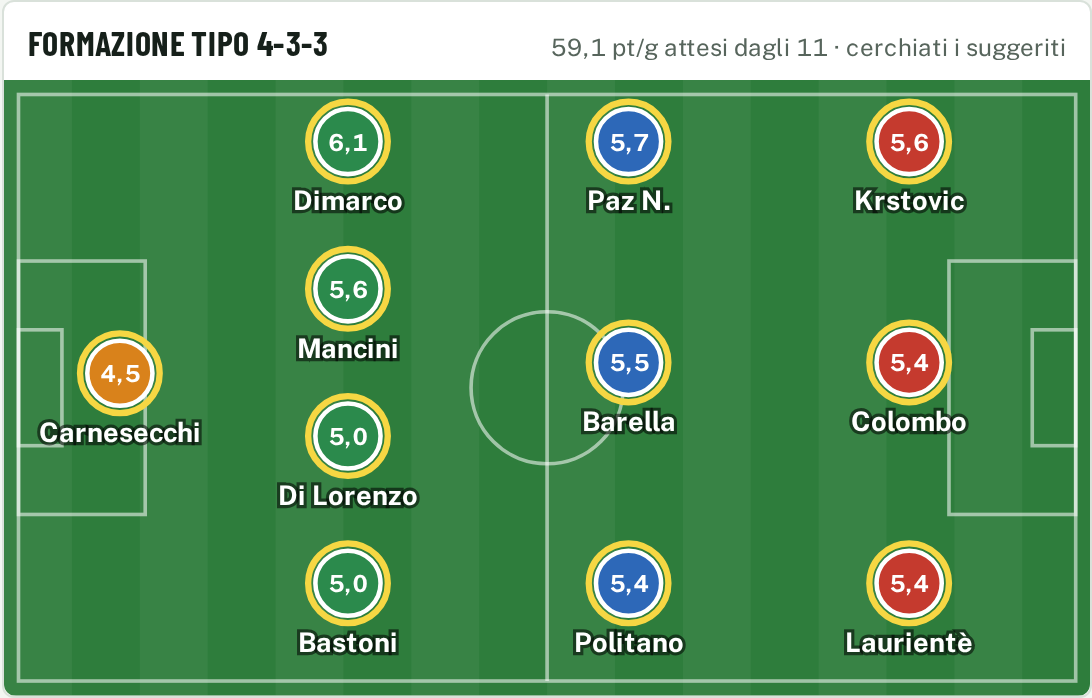
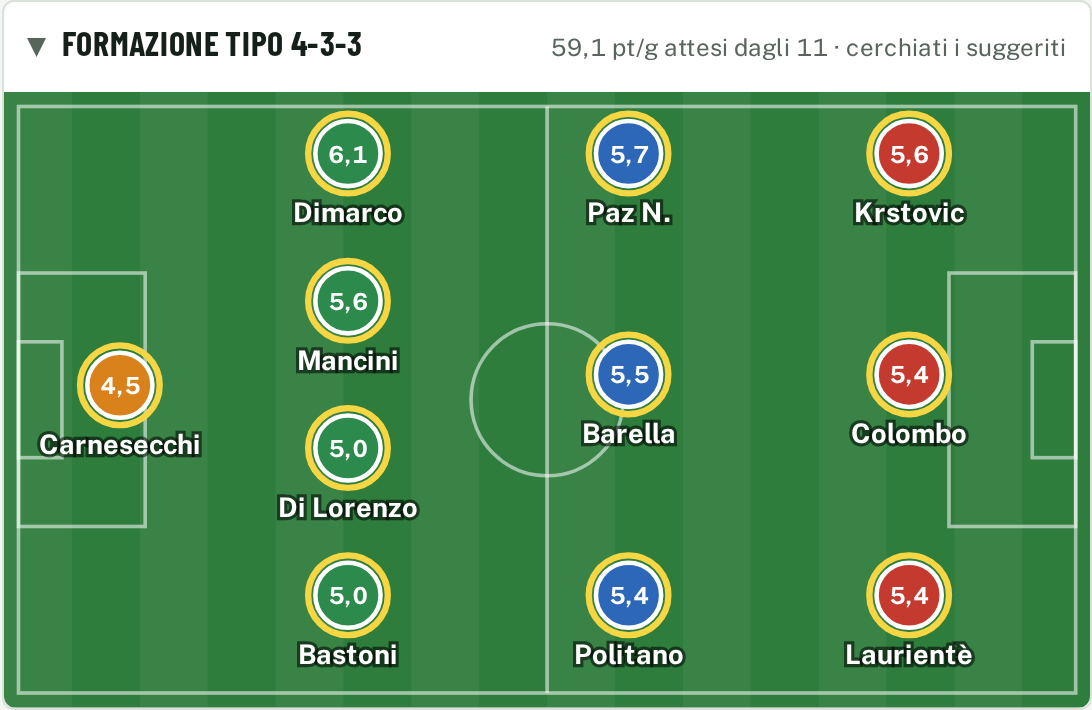
Pallone 3D a 32 pannelli e formazione tipo che si chiude a tendina
- Nuovo pallone generato da scripts/pallone.py: un icosaedro troncato
  vero (12 pentagoni neri, 20 esagoni bianchi) gonfiato su una sfera,
  con le cuciture curve, solo l'emisfero visibile, ombreggiatura per
  pannello, velo sferico e riflesso. ~7 KB di SVG, nessuna immagine.
- La formazione tipo si chiude a tendina: il campo scorre verso l'alto
  dietro al titolo e il riquadro si accorcia; l'SVG non viene piu'
  ridimensionato a ogni fotogramma (era quello a pesare e a scattare).
  La freccia gira subito al clic, non a fine animazione.
- Schermate del README aggiornate.

Claude-Session: https://claude.ai/code/session_01Dx9VgmQHZPvkBVP3JswiRz

diff --git a/web/index.html b/web/index.html
@@ -207,12 +207,14 @@ td.act { display: flex; gap: 4px; justify-content: flex-end; }
 .alts span.n { overflow: hidden; text-overflow: ellipsis; white-space: nowrap; }
 .squadre { display: flex; flex-wrap: wrap; gap: 6px; }
 .campo-card { padding: 0; }
-.campo-card .ruolo-h { padding: 12px 12px 6px; margin: 0; border: 0; cursor: pointer; list-style: none; }
-.campo-card:not([open]) .ruolo-h { padding-bottom: 12px; }
+.campo-card .ruolo-h { padding: 12px; margin: 0; border: 0; cursor: pointer; list-style: none; }
 .campo-card .ruolo-h::-webkit-details-marker { display: none; }
 .campo-card .ruolo-h h3::before { content: "▾"; display: inline-block; width: 1em; color: var(--ink-2); transition: transform 0.15s; }
-.campo-card:not([open]) .ruolo-h h3::before { transform: rotate(-90deg); }
-.campo { display: block; width: 100%; height: auto; aspect-ratio: 600 / 340; border-radius: 0 0 var(--radius) var(--radius); }
+.campo-card:not([open]) .ruolo-h h3::before, .campo-card.chiude .ruolo-h h3::before { transform: rotate(-90deg); }
+/* la tendina: il riquadro ritaglia, il campo scorre dentro senza ridimensionarsi */
+.campo-box { overflow: hidden; border-radius: 0 0 var(--radius) var(--radius); }
+.campo { display: block; width: 100%; height: auto; aspect-ratio: 600 / 340; }
+.campo-box.scorre .campo { will-change: transform; }
 .campo text { font-family: var(--font-body); }
 .chip { font-size: 12px; padding: 2px 8px; border-radius: 999px; border: 1px solid var(--rule); text-transform: capitalize; }
 .chip.full { border-color: var(--warn); color: var(--warn); font-weight: 600; }
@@ -938,7 +940,7 @@ function campo(tutti) {
   const strisce = Array.from({ length: 8 }, (_, i) => `<rect x="${i * 75}" y="0" width="37.5" height="${H}" fill="rgb(255 255 255 / 0.05)"/>`).join("");
   return `<details class="card campo-card" id="campo" ${S.campoChiuso ? "" : "open"}>
     <summary class="ruolo-h"><h3>Formazione tipo ${f.m}</h3><span class="lbl">${fmt(f.tot - (+f.m[0] >= 4 ? 1.5 : 0), 1)} pt/g attesi dagli 11 · cerchiati i suggeriti</span></summary>
-    <svg class="campo" viewBox="0 0 ${W} ${H}" role="img" aria-label="Formazione tipo ${f.m}">
+    <div class="campo-box"><svg class="campo" viewBox="0 0 ${W} ${H}" role="img" aria-label="Formazione tipo ${f.m}">
       <rect width="${W}" height="${H}" fill="var(--grass-1)"/>${strisce}
       <g fill="none" stroke="rgb(255 255 255 / 0.55)" stroke-width="2">
         <rect x="8" y="8" width="${W - 16}" height="${H - 16}"/>
@@ -948,7 +950,7 @@ function campo(tutti) {
         <rect x="${W - 78}" y="${H / 2 - 70}" width="70" height="140"/><rect x="${W - 32}" y="${H / 2 - 32}" width="24" height="64"/>
       </g>
       ${pallini}
-    </svg>
+    </svg></div>
   </details>`;
 }
 // --- scheda giocatore e dialoghi ----------------------------------------------------------
@@ -1269,7 +1271,8 @@ function annullaUltimo() {
 }
 
 // --- il calcio d'inizio: il pallone rotola sul bottone, viene verso di te e apre il setup ---
-const PALLONE = `<svg viewBox="0 0 100 100" aria-hidden="true"><defs><clipPath id="pallone-clip"><circle cx="50" cy="50" r="47"/></clipPath><radialGradient id="pallone-luce" cx="35%" cy="30%" r="75%"><stop offset="0" stop-color="#ffffff"/><stop offset="0.7" stop-color="#eef0ee"/><stop offset="1" stop-color="#aab1ac"/></radialGradient></defs><circle cx="50" cy="50" r="47" fill="url(#pallone-luce)"/><g clip-path="url(#pallone-clip)" fill="#16201a"><polygon points="50.0,35.0 64.3,45.4 58.8,62.1 41.2,62.1 35.7,45.4"/><polygon points="69.4,23.3 63.2,4.3 79.4,-7.5 95.6,4.3 89.4,23.3"/><polygon points="81.4,60.2 97.6,48.5 113.7,60.2 107.5,79.2 87.6,79.2"/><polygon points="50.0,83.0 66.2,94.7 60.0,113.8 40.0,113.8 33.8,94.7"/><polygon points="18.6,60.2 12.4,79.2 -7.5,79.2 -13.7,60.2 2.4,48.5"/><polygon points="30.6,23.3 10.6,23.3 4.4,4.3 20.6,-7.5 36.8,4.3"/><path d="M50.0 35.0L50.0 19.0M50.0 19.0L36.8 4.3M50.0 19.0L63.2 4.3M64.3 45.4L79.5 40.4M79.5 40.4L89.4 23.3M79.5 40.4L97.6 48.5M58.8 62.1L68.2 75.1M68.2 75.1L87.6 79.2M68.2 75.1L66.2 94.7M41.2 62.1L31.8 75.1M31.8 75.1L33.8 94.7M31.8 75.1L12.4 79.2M35.7 45.4L20.5 40.4M20.5 40.4L2.4 48.5M20.5 40.4L10.6 23.3" stroke="#16201a" stroke-width="2.4" fill="none" stroke-linecap="round"/></g><circle cx="50" cy="50" r="47" fill="none" stroke="#16201a" stroke-width="3"/></svg>`;
+// generato da scripts/pallone.py: icosaedro troncato gonfiato su una sfera, 12 pentagoni e 20 esagoni
+const PALLONE = `<svg viewBox="0 0 100 100" aria-hidden="true"><defs><radialGradient id="pl-volume" cx="38%" cy="34%" r="68%"><stop offset="0.55" stop-color="#000" stop-opacity="0"/><stop offset="0.9" stop-color="#000" stop-opacity="0.28"/><stop offset="1" stop-color="#000" stop-opacity="0.5"/></radialGradient><radialGradient id="pl-riflesso" cx="34%" cy="28%" r="30%"><stop offset="0" stop-color="#fff" stop-opacity="0.6"/><stop offset="1" stop-color="#fff" stop-opacity="0"/></radialGradient></defs><g stroke="#5b625e" stroke-width="0.9" stroke-linejoin="round"><path d="M96.8 54.5L96.9 52.9L97.0 49.3L97.0 47.9L97.0 48.8L97.0 49.8L97.0 50.7L97.0 51.7L96.9 52.6L96.9 53.6Z" fill="rgb(170,170,172)"/><path d="M7.2 30.5L7.2 30.6L6.5 32.6L5.2 36.1L4.2 39.7L3.5 43.3L3.2 45.5L3.5 43.3L3.8 41.1L4.3 38.9L4.9 36.8L5.6 34.6L6.4 32.6Z" fill="rgb(39,42,45)"/><path d="M53.3 3.1L53.2 3.1L52.3 3.2L48.5 3.3L44.7 3.6L40.9 4.2L37.2 5.2L33.7 6.4L32.0 6.7L30.7 7.2L33.7 5.9L36.8 4.9L40.1 4.1L43.4 3.5L46.8 3.1L50.1 3.0Z" fill="rgb(44,47,50)"/><path d="M3.0 52.1L3.1 53.5L3.6 56.3L4.3 59.2L5.4 61.9L6.7 64.5L7.8 67.9L9.1 71.4L10.8 74.7L12.7 77.8L14.8 80.6L15.2 81.5L15.5 81.9L12.6 78.5L10.0 74.6L7.6 70.4L5.8 65.8L4.4 61.2L3.5 56.6Z" fill="rgb(181,181,183)"/><path d="M69.3 92.8L69.6 92.7L71.0 91.8L72.3 90.7L73.5 89.3L76.5 87.1L79.5 84.7L82.3 82.0L84.8 79.2L87.1 76.2L88.9 74.7L90.5 73.1L91.8 71.3L92.8 69.5L90.7 73.5L88.1 77.6L84.9 81.5L81.3 85.0L77.4 88.2L73.4 90.8Z" fill="rgb(170,170,172)"/><path d="M84.5 18.1L84.1 17.8L83.3 17.3L82.1 17.0L80.8 16.9L77.9 14.9L74.7 13.0L71.4 11.3L67.9 10.0L64.4 8.9L62.1 7.2L59.7 5.8L57.3 4.6L54.8 3.8L52.3 3.2L53.2 3.1L53.3 3.1L58.0 3.7L63.0 4.8L67.9 6.5L72.7 8.8L77.1 11.6L81.1 14.8Z" fill="rgb(202,202,204)"/><path d="M15.5 81.9L15.2 81.5L14.8 80.6L16.8 82.2L19.0 83.6L21.5 84.7L24.1 85.6L26.9 86.3L29.9 88.4L33.1 90.3L36.5 91.9L39.9 93.3L43.4 94.3L44.2 95.4L45.0 96.2L45.9 96.7L46.7 96.9L42.0 96.3L37.0 95.2L32.1 93.5L27.3 91.2L22.9 88.4L18.9 85.2Z" fill="rgb(170,170,172)"/><path d="M30.7 7.2L32.0 6.7L33.7 6.4L32.1 7.6L30.7 9.1L29.4 10.9L28.2 12.9L27.2 15.1L24.1 17.3L21.2 19.8L18.4 22.5L15.8 25.3L13.6 28.3L11.6 28.9L9.9 29.6L8.5 30.5L7.3 31.5L6.5 32.6L7.2 30.6L7.2 30.5L9.3 26.5L11.9 22.4L15.1 18.5L18.7 15.0L22.6 11.8L26.6 9.2Z" fill="rgb(240,240,242)"/><path d="M97.0 47.9L97.0 49.3L96.7 48.8L96.1 48.3L95.2 47.8L94.1 47.3L92.6 46.9L91.5 43.5L90.2 40.2L88.5 36.9L86.6 33.7L84.5 30.7L84.3 27.7L83.7 24.7L83.0 21.9L82.0 19.3L80.8 16.9L82.1 17.0L83.3 17.3L84.1 17.8L84.5 18.1L87.4 21.5L90.0 25.4L92.4 29.6L94.2 34.2L95.6 38.8L96.5 43.4Z" fill="rgb(170,170,172)"/><path d="M46.7 96.9L45.9 96.7L45.0 96.2L44.2 95.4L43.4 94.3L46.5 94.0L49.7 93.3L53.0 92.4L56.2 91.2L59.3 89.7L62.3 90.2L65.2 90.3L68.1 90.2L70.9 89.9L73.5 89.3L72.3 90.7L71.0 91.8L69.6 92.7L69.3 92.8L66.3 94.1L63.2 95.1L59.9 95.9L56.6 96.5L53.2 96.9L49.9 97.0Z" fill="rgb(22,25,28)"/><path d="M92.8 69.5L91.8 71.3L90.5 73.1L88.9 74.7L87.1 76.2L87.4 73.9L87.6 71.5L87.5 68.9L87.1 66.2L86.5 63.5L88.2 60.3L89.7 57.0L91.0 53.6L91.9 50.2L92.6 46.9L94.1 47.3L95.2 47.8L96.1 48.3L96.7 48.8L97.0 49.3L96.9 52.9L96.8 54.5L96.5 56.7L96.2 58.9L95.7 61.1L95.1 63.2L94.4 65.4L93.6 67.4Z" fill="rgb(22,25,28)"/><path d="M6.7 64.5L5.4 61.9L4.3 59.2L3.6 56.3L3.1 53.5L3.0 52.1L3.0 51.2L3.0 50.2L3.0 49.3L3.0 48.3L3.1 47.4L3.1 46.4L3.2 45.5L3.5 43.3L4.2 39.7L5.2 36.1L6.5 32.6L7.3 31.5L8.5 30.5L9.9 29.6L11.6 28.9L13.6 28.3L13.8 30.8L14.4 33.4L15.1 36.2L16.1 39.1L17.3 42.0L16.1 45.6L15.2 49.2L14.5 52.9L14.1 56.6L13.8 60.1L11.9 61.1L10.2 62.1L8.8 63.0L7.6 63.8Z" fill="rgb(235,235,237)"/><path d="M26.3 73.6L26.1 76.5L26.1 79.3L26.2 81.8L26.5 84.2L26.9 86.3L24.1 85.6L21.5 84.7L19.0 83.6L16.8 82.2L14.8 80.6L12.7 77.8L10.8 74.7L9.1 71.4L7.8 67.9L6.7 64.5L7.6 63.8L8.8 63.0L10.2 62.1L11.9 61.1L13.8 60.1L15.9 63.0L18.2 65.8L20.7 68.6L23.5 71.2Z" fill="rgb(38,41,44)"/><path d="M27.2 15.1L28.2 12.9L29.4 10.9L30.7 9.1L32.1 7.6L33.7 6.4L37.2 5.2L40.9 4.2L44.7 3.6L48.5 3.3L52.3 3.2L54.8 3.8L57.3 4.6L59.7 5.8L62.1 7.2L64.4 8.9L63.3 10.1L62.0 11.6L60.7 13.4L59.3 15.5L57.9 17.7L54.2 17.9L50.5 18.3L46.7 18.9L42.9 19.8L39.3 20.8L36.7 19.3L34.1 17.9L31.7 16.7L29.3 15.8Z" fill="rgb(245,245,247)"/><path d="M80.8 16.9L82.0 19.3L83.0 21.9L83.7 24.7L84.3 27.7L84.5 30.7L82.1 30.5L79.5 30.5L76.6 30.6L73.5 30.8L70.4 31.1L68.1 28.2L65.7 25.3L63.1 22.5L60.5 20.0L57.9 17.7L59.3 15.5L60.7 13.4L62.0 11.6L63.3 10.1L64.4 8.9L67.9 10.0L71.4 11.3L74.7 13.0L77.9 14.9Z" fill="rgb(45,48,51)"/><path d="M59.3 89.7L59.3 87.7L59.2 85.3L59.1 82.8L58.9 80.0L58.7 77.0L61.6 74.7L64.4 72.2L67.2 69.6L69.8 66.8L72.3 63.9L75.5 64.0L78.5 64.0L81.4 63.9L84.1 63.7L86.5 63.5L87.1 66.2L87.5 68.9L87.6 71.5L87.4 73.9L87.1 76.2L84.8 79.2L82.3 82.0L79.5 84.7L76.5 87.1L73.5 89.3L70.9 89.9L68.1 90.2L65.2 90.3L62.3 90.2Z" fill="rgb(170,170,172)"/><path d="M26.3 73.6L29.2 73.0L32.3 72.2L35.6 71.2L38.9 70.2L42.2 69.0L45.4 70.9L48.8 72.7L52.1 74.3L55.5 75.8L58.7 77.0L58.9 80.0L59.1 82.8L59.2 85.3L59.3 87.7L59.3 89.7L56.2 91.2L53.0 92.4L49.7 93.3L46.5 94.0L43.4 94.3L39.9 93.3L36.5 91.9L33.1 90.3L29.9 88.4L26.9 86.3L26.5 84.2L26.2 81.8L26.1 79.3L26.1 76.5Z" fill="rgb(187,187,189)"/><path d="M17.3 42.0L16.1 39.1L15.1 36.2L14.4 33.4L13.8 30.8L13.6 28.3L15.8 25.3L18.4 22.5L21.2 19.8L24.1 17.3L27.2 15.1L29.3 15.8L31.7 16.7L34.1 17.9L36.7 19.3L39.3 20.8L37.9 23.8L36.6 27.0L35.3 30.4L34.2 33.9L33.2 37.4L29.7 38.2L26.3 39.0L23.1 40.0L20.1 41.0Z" fill="rgb(60,63,66)"/><path d="M84.5 30.7L86.6 33.7L88.5 36.9L90.2 40.2L91.5 43.5L92.6 46.9L91.9 50.2L91.0 53.6L89.7 57.0L88.2 60.3L86.5 63.5L84.1 63.7L81.4 63.9L78.5 64.0L75.5 64.0L72.3 63.9L71.0 60.8L69.4 57.6L67.8 54.3L66.1 51.0L64.2 47.7L65.7 44.4L67.0 40.9L68.3 37.5L69.4 34.3L70.4 31.1L73.5 30.8L76.6 30.6L79.5 30.5L82.1 30.5Z" fill="rgb(199,199,201)"/><path d="M13.8 60.1L14.1 56.6L14.5 52.9L15.2 49.2L16.1 45.6L17.3 42.0L20.1 41.0L23.1 40.0L26.3 39.0L29.7 38.2L33.2 37.4L35.5 40.0L37.9 42.6L40.5 45.4L43.0 48.2L45.6 50.9L44.9 54.6L44.1 58.3L43.4 62.0L42.8 65.6L42.2 69.0L38.9 70.2L35.6 71.2L32.3 72.2L29.2 73.0L26.3 73.6L23.5 71.2L20.7 68.6L18.2 65.8L15.9 63.0Z" fill="rgb(238,238,240)"/><path d="M39.3 20.8L42.9 19.8L46.7 18.9L50.5 18.3L54.2 17.9L57.9 17.7L60.5 20.0L63.1 22.5L65.7 25.3L68.1 28.2L70.4 31.1L69.4 34.3L68.3 37.5L67.0 40.9L65.7 44.4L64.2 47.7L60.6 48.4L56.9 49.0L53.1 49.6L49.3 50.3L45.6 50.9L43.0 48.2L40.5 45.4L37.9 42.6L35.5 40.0L33.2 37.4L34.2 33.9L35.3 30.4L36.6 27.0L37.9 23.8Z" fill="rgb(244,244,246)"/><path d="M45.6 50.9L49.3 50.3L53.1 49.6L56.9 49.0L60.6 48.4L64.2 47.7L66.1 51.0L67.8 54.3L69.4 57.6L71.0 60.8L72.3 63.9L69.8 66.8L67.2 69.6L64.4 72.2L61.6 74.7L58.7 77.0L55.5 75.8L52.1 74.3L48.8 72.7L45.4 70.9L42.2 69.0L42.8 65.6L43.4 62.0L44.1 58.3L44.9 54.6Z" fill="rgb(42,45,48)"/></g><circle cx="50.0" cy="50.0" r="47.0" fill="url(#pl-volume)"/><ellipse cx="36" cy="30" rx="17" ry="12" fill="url(#pl-riflesso)" transform="rotate(-30 36 30)"/><circle cx="50.0" cy="50.0" r="47.0" fill="none" stroke="#2b302d" stroke-width="1.4"/></svg>`;
 let inVolo = false;
 function calcioDInizio(btn) {
   const orig = btn.querySelector(".pallone");
@@ -1283,7 +1286,7 @@ function calcioDInizio(btn) {
   volo.innerHTML = PALLONE;
   Object.assign(volo.style, { left: b.left + "px", top: b.top + "px", width: b.width + "px", height: b.height + "px" });
   document.body.appendChild(volo);
-  orig.style.opacity = "0";           // non visibility: il clipPath del pallone deve restare attivo
+  orig.style.opacity = "0";           // non visibility: i gradienti del pallone devono restare attivi
   btn.querySelector(".ombra").style.opacity = "0";
 
   const d = b.width;
@@ -1423,20 +1426,31 @@ function risultatiRicerca() {
 }
 
 // --- eventi -----------------------------------------------------------------------------
-// apertura e chiusura della formazione tipo con una tendina animata sull'altezza del campo
+// apertura e chiusura della formazione tipo a tendina: il campo scorre verso l'alto dietro al
+// titolo (solo transform, niente ridimensionamento dell'SVG) mentre il riquadro si accorcia.
 document.addEventListener("click", (e) => {
   const s = e.target.closest("#campo > summary");
   if (!s || !Element.prototype.animate || !matchMedia("(prefers-reduced-motion: no-preference)").matches) return;
-  const det = s.parentElement, campo = det.querySelector(".campo");
-  if (det.dataset.anim) { e.preventDefault(); return; }
   e.preventDefault();
+  const det = s.parentElement, box = det.querySelector(".campo-box"), campo = det.querySelector(".campo");
+  if (det.dataset.anim) return;
   det.dataset.anim = "1";
   const apri = !det.open;
+  det.classList.toggle("chiude", !apri);
   if (apri) det.open = true;
   const h = campo.getBoundingClientRect().height;
-  const fotogrammi = [{ height: "0px", opacity: 0, transform: "translateY(-8px)" }, { height: h + "px", opacity: 1, transform: "none" }];
-  const a = campo.animate(apri ? fotogrammi : fotogrammi.slice().reverse(), { duration: 260, easing: "cubic-bezier(.3,.7,.3,1)" });
-  a.finished.then(() => { if (!apri) det.open = false; delete det.dataset.anim; });
+  const opz = { duration: 280, easing: apri ? "cubic-bezier(.2,.7,.3,1)" : "cubic-bezier(.5,0,.8,.4)" };
+  const su = [{ transform: "translateY(0)" }, { transform: `translateY(${-h}px)` }];
+  const alto = [{ height: h + "px" }, { height: "0px" }];
+  box.classList.add("scorre");
+  const a = box.animate(apri ? alto.slice().reverse() : alto, opz);
+  campo.animate(apri ? su.slice().reverse() : su, opz);
+  a.finished.then(() => {
+    if (!apri) det.open = false;
+    det.classList.remove("chiude");
+    box.classList.remove("scorre");
+    delete det.dataset.anim;
+  });
 });
 // formazione tipo aperta o chiusa: la scelta resta fra un ricalcolo e l'altro
 document.addEventListener("toggle", (e) => {

diff --git a/web/tool.html b/web/tool.html
@@ -200,12 +200,14 @@ td.act { display: flex; gap: 4px; justify-content: flex-end; }
 .alts span.n { overflow: hidden; text-overflow: ellipsis; white-space: nowrap; }
 .squadre { display: flex; flex-wrap: wrap; gap: 6px; }
 .campo-card { padding: 0; }
-.campo-card .ruolo-h { padding: 12px 12px 6px; margin: 0; border: 0; cursor: pointer; list-style: none; }
-.campo-card:not([open]) .ruolo-h { padding-bottom: 12px; }
+.campo-card .ruolo-h { padding: 12px; margin: 0; border: 0; cursor: pointer; list-style: none; }
 .campo-card .ruolo-h::-webkit-details-marker { display: none; }
 .campo-card .ruolo-h h3::before { content: "▾"; display: inline-block; width: 1em; color: var(--ink-2); transition: transform 0.15s; }
-.campo-card:not([open]) .ruolo-h h3::before { transform: rotate(-90deg); }
-.campo { display: block; width: 100%; height: auto; aspect-ratio: 600 / 340; border-radius: 0 0 var(--radius) var(--radius); }
+.campo-card:not([open]) .ruolo-h h3::before, .campo-card.chiude .ruolo-h h3::before { transform: rotate(-90deg); }
+/* la tendina: il riquadro ritaglia, il campo scorre dentro senza ridimensionarsi */
+.campo-box { overflow: hidden; border-radius: 0 0 var(--radius) var(--radius); }
+.campo { display: block; width: 100%; height: auto; aspect-ratio: 600 / 340; }
+.campo-box.scorre .campo { will-change: transform; }
 .campo text { font-family: var(--font-body); }
 .chip { font-size: 12px; padding: 2px 8px; border-radius: 999px; border: 1px solid var(--rule); text-transform: capitalize; }
 .chip.full { border-color: var(--warn); color: var(--warn); font-weight: 600; }
@@ -931,7 +933,7 @@ function campo(tutti) {
   const strisce = Array.from({ length: 8 }, (_, i) => `<rect x="${i * 75}" y="0" width="37.5" height="${H}" fill="rgb(255 255 255 / 0.05)"/>`).join("");
   return `<details class="card campo-card" id="campo" ${S.campoChiuso ? "" : "open"}>
     <summary class="ruolo-h"><h3>Formazione tipo ${f.m}</h3><span class="lbl">${fmt(f.tot - (+f.m[0] >= 4 ? 1.5 : 0), 1)} pt/g attesi dagli 11 · cerchiati i suggeriti</span></summary>
-    <svg class="campo" viewBox="0 0 ${W} ${H}" role="img" aria-label="Formazione tipo ${f.m}">
+    <div class="campo-box"><svg class="campo" viewBox="0 0 ${W} ${H}" role="img" aria-label="Formazione tipo ${f.m}">
       <rect width="${W}" height="${H}" fill="var(--grass-1)"/>${strisce}
       <g fill="none" stroke="rgb(255 255 255 / 0.55)" stroke-width="2">
         <rect x="8" y="8" width="${W - 16}" height="${H - 16}"/>
@@ -941,7 +943,7 @@ function campo(tutti) {
         <rect x="${W - 78}" y="${H / 2 - 70}" width="70" height="140"/><rect x="${W - 32}" y="${H / 2 - 32}" width="24" height="64"/>
       </g>
       ${pallini}
-    </svg>
+    </svg></div>
   </details>`;
 }
 // --- scheda giocatore e dialoghi ----------------------------------------------------------
@@ -1262,7 +1264,8 @@ function annullaUltimo() {
 }
 
 // --- il calcio d'inizio: il pallone rotola sul bottone, viene verso di te e apre il setup ---
-const PALLONE = `<svg viewBox="0 0 100 100" aria-hidden="true"><defs><clipPath id="pallone-clip"><circle cx="50" cy="50" r="47"/></clipPath><radialGradient id="pallone-luce" cx="35%" cy="30%" r="75%"><stop offset="0" stop-color="#ffffff"/><stop offset="0.7" stop-color="#eef0ee"/><stop offset="1" stop-color="#aab1ac"/></radialGradient></defs><circle cx="50" cy="50" r="47" fill="url(#pallone-luce)"/><g clip-path="url(#pallone-clip)" fill="#16201a"><polygon points="50.0,35.0 64.3,45.4 58.8,62.1 41.2,62.1 35.7,45.4"/><polygon points="69.4,23.3 63.2,4.3 79.4,-7.5 95.6,4.3 89.4,23.3"/><polygon points="81.4,60.2 97.6,48.5 113.7,60.2 107.5,79.2 87.6,79.2"/><polygon points="50.0,83.0 66.2,94.7 60.0,113.8 40.0,113.8 33.8,94.7"/><polygon points="18.6,60.2 12.4,79.2 -7.5,79.2 -13.7,60.2 2.4,48.5"/><polygon points="30.6,23.3 10.6,23.3 4.4,4.3 20.6,-7.5 36.8,4.3"/><path d="M50.0 35.0L50.0 19.0M50.0 19.0L36.8 4.3M50.0 19.0L63.2 4.3M64.3 45.4L79.5 40.4M79.5 40.4L89.4 23.3M79.5 40.4L97.6 48.5M58.8 62.1L68.2 75.1M68.2 75.1L87.6 79.2M68.2 75.1L66.2 94.7M41.2 62.1L31.8 75.1M31.8 75.1L33.8 94.7M31.8 75.1L12.4 79.2M35.7 45.4L20.5 40.4M20.5 40.4L2.4 48.5M20.5 40.4L10.6 23.3" stroke="#16201a" stroke-width="2.4" fill="none" stroke-linecap="round"/></g><circle cx="50" cy="50" r="47" fill="none" stroke="#16201a" stroke-width="3"/></svg>`;
+// generato da scripts/pallone.py: icosaedro troncato gonfiato su una sfera, 12 pentagoni e 20 esagoni
+const PALLONE = `<svg viewBox="0 0 100 100" aria-hidden="true"><defs><radialGradient id="pl-volume" cx="38%" cy="34%" r="68%"><stop offset="0.55" stop-color="#000" stop-opacity="0"/><stop offset="0.9" stop-color="#000" stop-opacity="0.28"/><stop offset="1" stop-color="#000" stop-opacity="0.5"/></radialGradient><radialGradient id="pl-riflesso" cx="34%" cy="28%" r="30%"><stop offset="0" stop-color="#fff" stop-opacity="0.6"/><stop offset="1" stop-color="#fff" stop-opacity="0"/></radialGradient></defs><g stroke="#5b625e" stroke-width="0.9" stroke-linejoin="round"><path d="M96.8 54.5L96.9 52.9L97.0 49.3L97.0 47.9L97.0 48.8L97.0 49.8L97.0 50.7L97.0 51.7L96.9 52.6L96.9 53.6Z" fill="rgb(170,170,172)"/><path d="M7.2 30.5L7.2 30.6L6.5 32.6L5.2 36.1L4.2 39.7L3.5 43.3L3.2 45.5L3.5 43.3L3.8 41.1L4.3 38.9L4.9 36.8L5.6 34.6L6.4 32.6Z" fill="rgb(39,42,45)"/><path d="M53.3 3.1L53.2 3.1L52.3 3.2L48.5 3.3L44.7 3.6L40.9 4.2L37.2 5.2L33.7 6.4L32.0 6.7L30.7 7.2L33.7 5.9L36.8 4.9L40.1 4.1L43.4 3.5L46.8 3.1L50.1 3.0Z" fill="rgb(44,47,50)"/><path d="M3.0 52.1L3.1 53.5L3.6 56.3L4.3 59.2L5.4 61.9L6.7 64.5L7.8 67.9L9.1 71.4L10.8 74.7L12.7 77.8L14.8 80.6L15.2 81.5L15.5 81.9L12.6 78.5L10.0 74.6L7.6 70.4L5.8 65.8L4.4 61.2L3.5 56.6Z" fill="rgb(181,181,183)"/><path d="M69.3 92.8L69.6 92.7L71.0 91.8L72.3 90.7L73.5 89.3L76.5 87.1L79.5 84.7L82.3 82.0L84.8 79.2L87.1 76.2L88.9 74.7L90.5 73.1L91.8 71.3L92.8 69.5L90.7 73.5L88.1 77.6L84.9 81.5L81.3 85.0L77.4 88.2L73.4 90.8Z" fill="rgb(170,170,172)"/><path d="M84.5 18.1L84.1 17.8L83.3 17.3L82.1 17.0L80.8 16.9L77.9 14.9L74.7 13.0L71.4 11.3L67.9 10.0L64.4 8.9L62.1 7.2L59.7 5.8L57.3 4.6L54.8 3.8L52.3 3.2L53.2 3.1L53.3 3.1L58.0 3.7L63.0 4.8L67.9 6.5L72.7 8.8L77.1 11.6L81.1 14.8Z" fill="rgb(202,202,204)"/><path d="M15.5 81.9L15.2 81.5L14.8 80.6L16.8 82.2L19.0 83.6L21.5 84.7L24.1 85.6L26.9 86.3L29.9 88.4L33.1 90.3L36.5 91.9L39.9 93.3L43.4 94.3L44.2 95.4L45.0 96.2L45.9 96.7L46.7 96.9L42.0 96.3L37.0 95.2L32.1 93.5L27.3 91.2L22.9 88.4L18.9 85.2Z" fill="rgb(170,170,172)"/><path d="M30.7 7.2L32.0 6.7L33.7 6.4L32.1 7.6L30.7 9.1L29.4 10.9L28.2 12.9L27.2 15.1L24.1 17.3L21.2 19.8L18.4 22.5L15.8 25.3L13.6 28.3L11.6 28.9L9.9 29.6L8.5 30.5L7.3 31.5L6.5 32.6L7.2 30.6L7.2 30.5L9.3 26.5L11.9 22.4L15.1 18.5L18.7 15.0L22.6 11.8L26.6 9.2Z" fill="rgb(240,240,242)"/><path d="M97.0 47.9L97.0 49.3L96.7 48.8L96.1 48.3L95.2 47.8L94.1 47.3L92.6 46.9L91.5 43.5L90.2 40.2L88.5 36.9L86.6 33.7L84.5 30.7L84.3 27.7L83.7 24.7L83.0 21.9L82.0 19.3L80.8 16.9L82.1 17.0L83.3 17.3L84.1 17.8L84.5 18.1L87.4 21.5L90.0 25.4L92.4 29.6L94.2 34.2L95.6 38.8L96.5 43.4Z" fill="rgb(170,170,172)"/><path d="M46.7 96.9L45.9 96.7L45.0 96.2L44.2 95.4L43.4 94.3L46.5 94.0L49.7 93.3L53.0 92.4L56.2 91.2L59.3 89.7L62.3 90.2L65.2 90.3L68.1 90.2L70.9 89.9L73.5 89.3L72.3 90.7L71.0 91.8L69.6 92.7L69.3 92.8L66.3 94.1L63.2 95.1L59.9 95.9L56.6 96.5L53.2 96.9L49.9 97.0Z" fill="rgb(22,25,28)"/><path d="M92.8 69.5L91.8 71.3L90.5 73.1L88.9 74.7L87.1 76.2L87.4 73.9L87.6 71.5L87.5 68.9L87.1 66.2L86.5 63.5L88.2 60.3L89.7 57.0L91.0 53.6L91.9 50.2L92.6 46.9L94.1 47.3L95.2 47.8L96.1 48.3L96.7 48.8L97.0 49.3L96.9 52.9L96.8 54.5L96.5 56.7L96.2 58.9L95.7 61.1L95.1 63.2L94.4 65.4L93.6 67.4Z" fill="rgb(22,25,28)"/><path d="M6.7 64.5L5.4 61.9L4.3 59.2L3.6 56.3L3.1 53.5L3.0 52.1L3.0 51.2L3.0 50.2L3.0 49.3L3.0 48.3L3.1 47.4L3.1 46.4L3.2 45.5L3.5 43.3L4.2 39.7L5.2 36.1L6.5 32.6L7.3 31.5L8.5 30.5L9.9 29.6L11.6 28.9L13.6 28.3L13.8 30.8L14.4 33.4L15.1 36.2L16.1 39.1L17.3 42.0L16.1 45.6L15.2 49.2L14.5 52.9L14.1 56.6L13.8 60.1L11.9 61.1L10.2 62.1L8.8 63.0L7.6 63.8Z" fill="rgb(235,235,237)"/><path d="M26.3 73.6L26.1 76.5L26.1 79.3L26.2 81.8L26.5 84.2L26.9 86.3L24.1 85.6L21.5 84.7L19.0 83.6L16.8 82.2L14.8 80.6L12.7 77.8L10.8 74.7L9.1 71.4L7.8 67.9L6.7 64.5L7.6 63.8L8.8 63.0L10.2 62.1L11.9 61.1L13.8 60.1L15.9 63.0L18.2 65.8L20.7 68.6L23.5 71.2Z" fill="rgb(38,41,44)"/><path d="M27.2 15.1L28.2 12.9L29.4 10.9L30.7 9.1L32.1 7.6L33.7 6.4L37.2 5.2L40.9 4.2L44.7 3.6L48.5 3.3L52.3 3.2L54.8 3.8L57.3 4.6L59.7 5.8L62.1 7.2L64.4 8.9L63.3 10.1L62.0 11.6L60.7 13.4L59.3 15.5L57.9 17.7L54.2 17.9L50.5 18.3L46.7 18.9L42.9 19.8L39.3 20.8L36.7 19.3L34.1 17.9L31.7 16.7L29.3 15.8Z" fill="rgb(245,245,247)"/><path d="M80.8 16.9L82.0 19.3L83.0 21.9L83.7 24.7L84.3 27.7L84.5 30.7L82.1 30.5L79.5 30.5L76.6 30.6L73.5 30.8L70.4 31.1L68.1 28.2L65.7 25.3L63.1 22.5L60.5 20.0L57.9 17.7L59.3 15.5L60.7 13.4L62.0 11.6L63.3 10.1L64.4 8.9L67.9 10.0L71.4 11.3L74.7 13.0L77.9 14.9Z" fill="rgb(45,48,51)"/><path d="M59.3 89.7L59.3 87.7L59.2 85.3L59.1 82.8L58.9 80.0L58.7 77.0L61.6 74.7L64.4 72.2L67.2 69.6L69.8 66.8L72.3 63.9L75.5 64.0L78.5 64.0L81.4 63.9L84.1 63.7L86.5 63.5L87.1 66.2L87.5 68.9L87.6 71.5L87.4 73.9L87.1 76.2L84.8 79.2L82.3 82.0L79.5 84.7L76.5 87.1L73.5 89.3L70.9 89.9L68.1 90.2L65.2 90.3L62.3 90.2Z" fill="rgb(170,170,172)"/><path d="M26.3 73.6L29.2 73.0L32.3 72.2L35.6 71.2L38.9 70.2L42.2 69.0L45.4 70.9L48.8 72.7L52.1 74.3L55.5 75.8L58.7 77.0L58.9 80.0L59.1 82.8L59.2 85.3L59.3 87.7L59.3 89.7L56.2 91.2L53.0 92.4L49.7 93.3L46.5 94.0L43.4 94.3L39.9 93.3L36.5 91.9L33.1 90.3L29.9 88.4L26.9 86.3L26.5 84.2L26.2 81.8L26.1 79.3L26.1 76.5Z" fill="rgb(187,187,189)"/><path d="M17.3 42.0L16.1 39.1L15.1 36.2L14.4 33.4L13.8 30.8L13.6 28.3L15.8 25.3L18.4 22.5L21.2 19.8L24.1 17.3L27.2 15.1L29.3 15.8L31.7 16.7L34.1 17.9L36.7 19.3L39.3 20.8L37.9 23.8L36.6 27.0L35.3 30.4L34.2 33.9L33.2 37.4L29.7 38.2L26.3 39.0L23.1 40.0L20.1 41.0Z" fill="rgb(60,63,66)"/><path d="M84.5 30.7L86.6 33.7L88.5 36.9L90.2 40.2L91.5 43.5L92.6 46.9L91.9 50.2L91.0 53.6L89.7 57.0L88.2 60.3L86.5 63.5L84.1 63.7L81.4 63.9L78.5 64.0L75.5 64.0L72.3 63.9L71.0 60.8L69.4 57.6L67.8 54.3L66.1 51.0L64.2 47.7L65.7 44.4L67.0 40.9L68.3 37.5L69.4 34.3L70.4 31.1L73.5 30.8L76.6 30.6L79.5 30.5L82.1 30.5Z" fill="rgb(199,199,201)"/><path d="M13.8 60.1L14.1 56.6L14.5 52.9L15.2 49.2L16.1 45.6L17.3 42.0L20.1 41.0L23.1 40.0L26.3 39.0L29.7 38.2L33.2 37.4L35.5 40.0L37.9 42.6L40.5 45.4L43.0 48.2L45.6 50.9L44.9 54.6L44.1 58.3L43.4 62.0L42.8 65.6L42.2 69.0L38.9 70.2L35.6 71.2L32.3 72.2L29.2 73.0L26.3 73.6L23.5 71.2L20.7 68.6L18.2 65.8L15.9 63.0Z" fill="rgb(238,238,240)"/><path d="M39.3 20.8L42.9 19.8L46.7 18.9L50.5 18.3L54.2 17.9L57.9 17.7L60.5 20.0L63.1 22.5L65.7 25.3L68.1 28.2L70.4 31.1L69.4 34.3L68.3 37.5L67.0 40.9L65.7 44.4L64.2 47.7L60.6 48.4L56.9 49.0L53.1 49.6L49.3 50.3L45.6 50.9L43.0 48.2L40.5 45.4L37.9 42.6L35.5 40.0L33.2 37.4L34.2 33.9L35.3 30.4L36.6 27.0L37.9 23.8Z" fill="rgb(244,244,246)"/><path d="M45.6 50.9L49.3 50.3L53.1 49.6L56.9 49.0L60.6 48.4L64.2 47.7L66.1 51.0L67.8 54.3L69.4 57.6L71.0 60.8L72.3 63.9L69.8 66.8L67.2 69.6L64.4 72.2L61.6 74.7L58.7 77.0L55.5 75.8L52.1 74.3L48.8 72.7L45.4 70.9L42.2 69.0L42.8 65.6L43.4 62.0L44.1 58.3L44.9 54.6Z" fill="rgb(42,45,48)"/></g><circle cx="50.0" cy="50.0" r="47.0" fill="url(#pl-volume)"/><ellipse cx="36" cy="30" rx="17" ry="12" fill="url(#pl-riflesso)" transform="rotate(-30 36 30)"/><circle cx="50.0" cy="50.0" r="47.0" fill="none" stroke="#2b302d" stroke-width="1.4"/></svg>`;
 let inVolo = false;
 function calcioDInizio(btn) {
   const orig = btn.querySelector(".pallone");
@@ -1276,7 +1279,7 @@ function calcioDInizio(btn) {
   volo.innerHTML = PALLONE;
   Object.assign(volo.style, { left: b.left + "px", top: b.top + "px", width: b.width + "px", height: b.height + "px" });
   document.body.appendChild(volo);
-  orig.style.opacity = "0";           // non visibility: il clipPath del pallone deve restare attivo
+  orig.style.opacity = "0";           // non visibility: i gradienti del pallone devono restare attivi
   btn.querySelector(".ombra").style.opacity = "0";
 
   const d = b.width;
@@ -1416,20 +1419,31 @@ function risultatiRicerca() {
 }
 
 // --- eventi -----------------------------------------------------------------------------
-// apertura e chiusura della formazione tipo con una tendina animata sull'altezza del campo
+// apertura e chiusura della formazione tipo a tendina: il campo scorre verso l'alto dietro al
+// titolo (solo transform, niente ridimensionamento dell'SVG) mentre il riquadro si accorcia.
 document.addEventListener("click", (e) => {
   const s = e.target.closest("#campo > summary");
   if (!s || !Element.prototype.animate || !matchMedia("(prefers-reduced-motion: no-preference)").matches) return;
-  const det = s.parentElement, campo = det.querySelector(".campo");
-  if (det.dataset.anim) { e.preventDefault(); return; }
   e.preventDefault();
+  const det = s.parentElement, box = det.querySelector(".campo-box"), campo = det.querySelector(".campo");
+  if (det.dataset.anim) return;
   det.dataset.anim = "1";
   const apri = !det.open;
+  det.classList.toggle("chiude", !apri);
   if (apri) det.open = true;
   const h = campo.getBoundingClientRect().height;
-  const fotogrammi = [{ height: "0px", opacity: 0, transform: "translateY(-8px)" }, { height: h + "px", opacity: 1, transform: "none" }];
-  const a = campo.animate(apri ? fotogrammi : fotogrammi.slice().reverse(), { duration: 260, easing: "cubic-bezier(.3,.7,.3,1)" });
-  a.finished.then(() => { if (!apri) det.open = false; delete det.dataset.anim; });
+  const opz = { duration: 280, easing: apri ? "cubic-bezier(.2,.7,.3,1)" : "cubic-bezier(.5,0,.8,.4)" };
+  const su = [{ transform: "translateY(0)" }, { transform: `translateY(${-h}px)` }];
+  const alto = [{ height: h + "px" }, { height: "0px" }];
+  box.classList.add("scorre");
+  const a = box.animate(apri ? alto.slice().reverse() : alto, opz);
+  campo.animate(apri ? su.slice().reverse() : su, opz);
+  a.finished.then(() => {
+    if (!apri) det.open = false;
+    det.classList.remove("chiude");
+    box.classList.remove("scorre");
+    delete det.dataset.anim;
+  });
 });
 // formazione tipo aperta o chiusa: la scelta resta fra un ricalcolo e l'altro
 document.addEventListener("toggle", (e) => {

diff --git a/scripts/pallone.py b/scripts/pallone.py
@@ -1,0 +1,172 @@
+"""Genera l'SVG del pallone del bottone "Modalita' asta".
+
+Un pallone classico a 32 pannelli (12 pentagoni neri, 20 esagoni bianchi) e'
+un icosaedro troncato gonfiato su una sfera. Qui lo si costruisce davvero:
+vertici dell'icosaedro troncato, facce dal guscio convesso, lati suddivisi e
+riportati sulla sfera (cosi' le cuciture sono curve), proiezione ortografica
+del solo emisfero visibile e ombreggiatura per faccia, piu' un velo sferico e
+un riflesso per il volume.
+
+    python scripts/pallone.py > /tmp/pallone.svg
+
+Stampa l'SVG su una riga, pronto da incollare nella costante PALLONE di
+web/tool.html.
+"""
+
+from __future__ import annotations
+
+import itertools
+
+import numpy as np
+from scipy.spatial import ConvexHull
+
+PHI = (1 + 5 ** 0.5) / 2
+R, C = 47.0, 50.0                  # raggio e centro nel viewBox 0 0 100 100
+SUDDIVISIONI = 5                   # punti per lato: piu' alti = cuciture piu' tonde
+LUCE = np.array([-0.45, -0.55, 0.70])
+LUCE = LUCE / np.linalg.norm(LUCE)
+
+
+def vertici() -> np.ndarray:
+    base = [(0, 1, 3 * PHI), (1, 2 + PHI, 2 * PHI), (PHI, 2, 2 * PHI + 1)]
+    pari = [(0, 1, 2), (1, 2, 0), (2, 0, 1)]         # permutazioni cicliche (pari)
+    out = set()
+    for b in base:
+        for s in itertools.product((1, -1), repeat=3):
+            v = [b[i] * s[i] for i in range(3)]
+            for p in pari:
+                out.add(tuple(round(v[i], 9) for i in p))
+    v = np.array(sorted(out))
+    assert len(v) == 60, len(v)
+    return v / np.linalg.norm(v[0])
+
+
+def facce(v: np.ndarray) -> list[list[int]]:
+    """Facce poligonali: triangoli del guscio convesso raggruppati per piano."""
+    hull = ConvexHull(v)
+    gruppi: dict[tuple, set] = {}
+    for simp, eq in zip(hull.simplices, hull.equations):
+        gruppi.setdefault(tuple(np.round(eq, 5)), set()).update(simp)
+    out = []
+    for eq, idx in gruppi.items():
+        idx = list(idx)
+        n = np.array(eq[:3])
+        c = v[idx].mean(axis=0)
+        a = v[idx[0]] - c
+        a /= np.linalg.norm(a)
+        b = np.cross(n, a)
+        ang = [np.arctan2((v[i] - c) @ b, (v[i] - c) @ a) for i in idx]
+        out.append([i for _, i in sorted(zip(ang, idx))])
+    assert sorted(len(f) for f in out) == [5] * 12 + [6] * 20
+    return out
+
+
+def _rot(asse: str, g: float) -> np.ndarray:
+    g = np.radians(g)
+    c, s = np.cos(g), np.sin(g)
+    return {"x": np.array([[1, 0, 0], [0, c, -s], [0, s, c]]),
+            "y": np.array([[c, 0, s], [0, 1, 0], [-s, 0, c]]),
+            "z": np.array([[c, -s, 0], [s, c, 0], [0, 0, 1]])}[asse]
+
+
+def ruota(v: np.ndarray, verso: np.ndarray, tilt=(-14.0, 11.0, 8.0)) -> np.ndarray:
+    """Porta `verso` (il centro di un pentagono) davanti all'osservatore, poi inclina un po'."""
+    a = verso / np.linalg.norm(verso)
+    z = np.array([0.0, 0.0, 1.0])
+    k = np.cross(a, z)
+    s, c = np.linalg.norm(k), a @ z
+    if s < 1e-9:
+        m = np.eye(3)
+    else:
+        k /= s
+        K = np.array([[0, -k[2], k[1]], [k[2], 0, -k[0]], [-k[1], k[0], 0]])
+        m = np.eye(3) + s * K + (1 - c) * K @ K          # Rodrigues
+    m = _rot("z", tilt[2]) @ _rot("y", tilt[1]) @ _rot("x", tilt[0]) @ m
+    return v @ m.T
+
+
+def sfera_poligono(pts: np.ndarray) -> np.ndarray:
+    """Lati suddivisi e proiettati sulla sfera: il pannello diventa curvo."""
+    out = []
+    for a, b in zip(pts, np.roll(pts, -1, axis=0)):
+        for t in np.linspace(0, 1, SUDDIVISIONI, endpoint=False):
+            p = a + (b - a) * t
+            out.append(p / np.linalg.norm(p))
+    return np.array(out)
+
+
+def taglia_emisfero(pts: np.ndarray) -> np.ndarray:
+    """Sutherland-Hodgman sul piano z = 0; i tratti nuovi stanno sul bordo del disco."""
+    out = []
+    n = len(pts)
+    for i in range(n):
+        a, b = pts[i], pts[(i + 1) % n]
+        if a[2] >= 0:
+            out.append(a)
+        if (a[2] >= 0) != (b[2] >= 0):
+            t = a[2] / (a[2] - b[2])
+            p = a + (b - a) * t
+            p[2] = 0
+            out.append(p / np.linalg.norm(p))
+    if len(out) < 3:
+        return np.empty((0, 3))
+    # i tratti lungo il bordo diventano archi: suddivisi e riportati sul cerchio
+    arc = []
+    for a, b in zip(out, out[1:] + out[:1]):
+        arc.append(a)
+        if abs(a[2]) < 1e-9 and abs(b[2]) < 1e-9:
+            for t in np.linspace(0, 1, 8)[1:-1]:
+                p = a + (b - a) * t
+                p[2] = 0
+                arc.append(p / np.linalg.norm(p))
+    return np.array(arc)
+
+
+def path(pts: np.ndarray) -> str:
+    xy = [(C + R * p[0], C + R * p[1]) for p in pts]
+    return "M" + "L".join(f"{x:.1f} {y:.1f}" for x, y in xy) + "Z"
+
+
+def colore(nero: bool, luce: float) -> str:
+    if nero:
+        g = 22 + 38 * luce
+        return f"rgb({g:.0f},{g + 3:.0f},{g + 6:.0f})"
+    g = 170 + 85 * luce
+    return f"rgb({g:.0f},{g:.0f},{min(255, g + 2):.0f})"
+
+
+def svg() -> str:
+    v0 = vertici()
+    ff = facce(v0)
+    penta = next(f for f in ff if len(f) == 5)
+    v = ruota(v0, v0[penta].mean(axis=0))
+    pannelli = []
+    for f in ff:
+        poly = taglia_emisfero(sfera_poligono(v[f]))
+        if not len(poly):
+            continue
+        n = v[f].mean(axis=0)
+        n /= np.linalg.norm(n)
+        luce = max(0.0, float(n @ LUCE)) ** 0.8
+        pannelli.append((n[2], len(f) == 5, luce, path(poly)))
+    pannelli.sort()                                    # prima i pannelli verso il bordo
+    corpo = "".join(
+        f'<path d="{d}" fill="{colore(nero, l)}"/>' for _, nero, l, d in pannelli)
+    return (
+        '<svg viewBox="0 0 100 100" aria-hidden="true"><defs>'
+        '<radialGradient id="pl-volume" cx="38%" cy="34%" r="68%">'
+        '<stop offset="0.55" stop-color="#000" stop-opacity="0"/>'
+        '<stop offset="0.9" stop-color="#000" stop-opacity="0.28"/>'
+        '<stop offset="1" stop-color="#000" stop-opacity="0.5"/></radialGradient>'
+        '<radialGradient id="pl-riflesso" cx="34%" cy="28%" r="30%">'
+        '<stop offset="0" stop-color="#fff" stop-opacity="0.6"/>'
+        '<stop offset="1" stop-color="#fff" stop-opacity="0"/></radialGradient></defs>'
+        f'<g stroke="#5b625e" stroke-width="0.9" stroke-linejoin="round">{corpo}</g>'
+        f'<circle cx="{C}" cy="{C}" r="{R}" fill="url(#pl-volume)"/>'
+        f'<ellipse cx="36" cy="30" rx="17" ry="12" fill="url(#pl-riflesso)" transform="rotate(-30 36 30)"/>'
+        f'<circle cx="{C}" cy="{C}" r="{R}" fill="none" stroke="#2b302d" stroke-width="1.4"/>'
+        '</svg>')
+
+
+if __name__ == "__main__":
+    print(svg())
